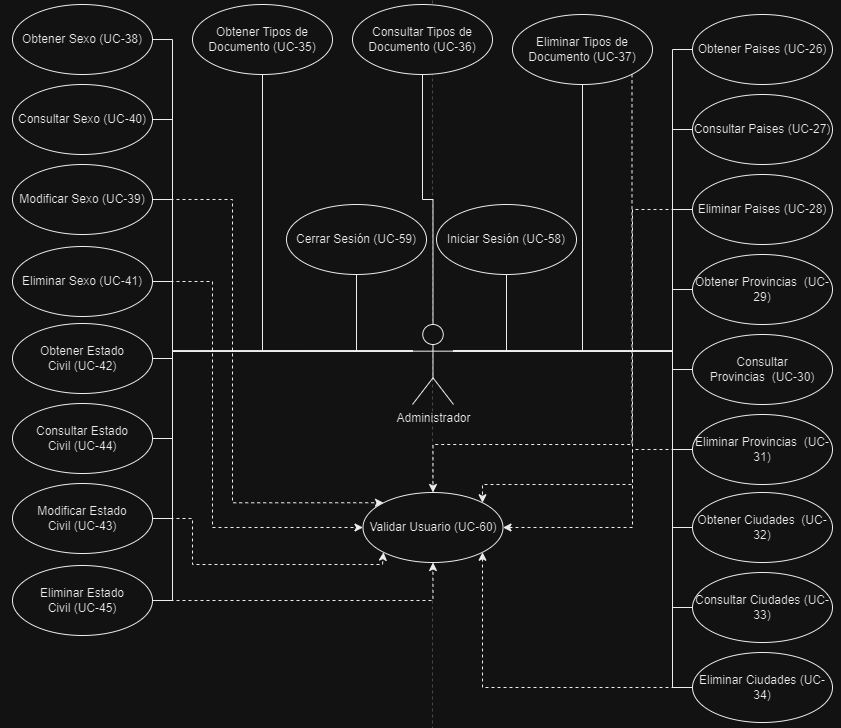
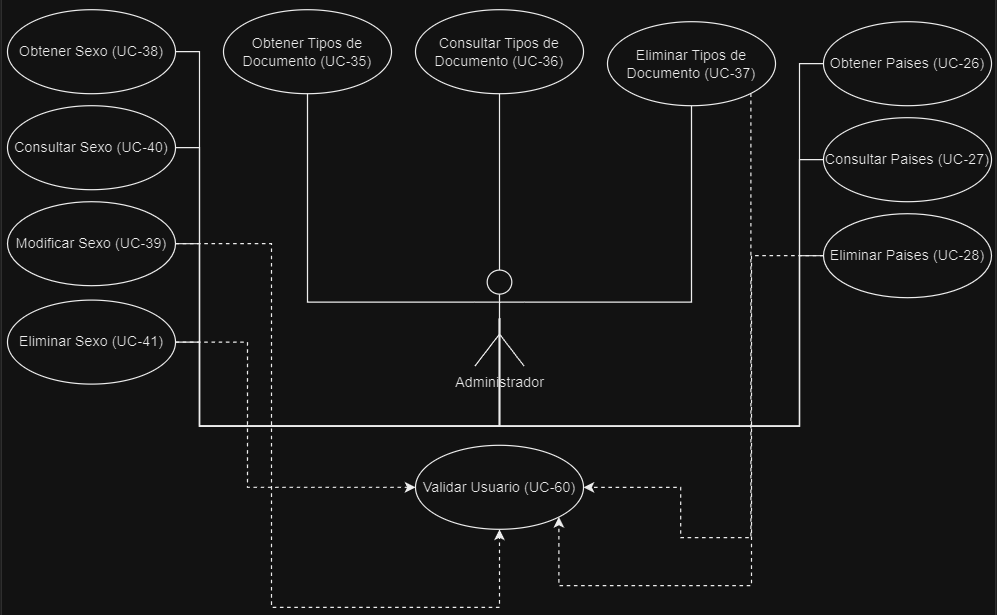
Actualizacion de los requisitos de informacion y sus respectivos CU

diff --git a/docs/Especificacion_de_Requerimientos.md b/docs/Especificacion_de_Requerimientos.md
@@ -95,12 +95,6 @@ Ninguno
 - UC- 26 - Obtener Paises
 - UC- 27 - Consultar Paises
 - UC- 28 - Eliminar Paises
-- UC- 29 - Obtener Provincias
-- UC- 30 - Consultar Provincias
-- UC- 31 - Eliminar Provincias
-- UC- 32 - Obtener Ciudades
-- UC- 33 - Consultar Ciudades
-- UC- 34 - Eliminar Ciudades
 - UC- 35 - Obtener Tipos de Documento
 - UC- 36 - Consultar Tipos de Documento
 - UC- 37 - Eliminar Tipos de Documento
@@ -108,12 +102,6 @@ Ninguno
 - UC- 39 - Modificar Sexo
 - UC- 40 - Consultar Sexo
 - UC- 41 - Eliminar Sexo
-- UC- 42 - Obtener Estado Civil
-- UC- 43 - Modificar Estado Civil
-- UC- 44 - Consultar Estado Civil
-- UC- 45 - Eliminar Estado Civil
-- UC- 58: Inicio de Sesión
-- UC- 59: Cerrar Sesión
 - UC- 60: Validar usuario
 
 **Descripción**
@@ -121,10 +109,8 @@ Se registrara toda la información necesaria, reconocidas como parámetros del s
 
 **Datos específicos**
 - Nombre de País
-- Nombre de provincia
-- Nombre de Ciudad
 - Tipo de Documento
-- Estado Civil
+- Sexo
 
 **Estabilidad**
 Alta
@@ -140,18 +126,10 @@ Ninguno
 - OBJ05-Gestionar Seguridad
 
 **Requisitos asociados**
-- UC- 58 - Iniciar Sesión
-- UC- 59 - Cerrar Sesión
 - UC- 60 - Validar Usuario
-- UC- 61 - Crear Rol
-- UC- 62 - Modificar Rol
-- UC- 63 - Eliminar Rol
-- UC- 64 - Asignar Rol
-- UC- 65 - Desasignar Rol
-- UC- 66 - Consultar Roles
 
 **Descripción**
-El sistema permitirá llevar un control sobre los permisos y los roles que tendrá cada usuario que lo utilice.
+El sistema permitirá verificar que el nombre de usuario o contraseña proporcionado concuerda con unos de los usuarios del sistema.
 
 **Datos específicos**
 - Nombre Rol
